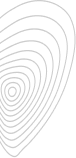
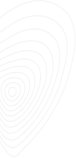
update: image of section workTogether is imported

diff --git a/my-app/src/components/projectManagment.jsx b/my-app/src/components/projectManagment.jsx
@@ -2,7 +2,7 @@ import React from 'react'
 
 import "./stylesheets/section2.css"
 import image from './../assets/image-container.png'
-import bgElement from './../assets/Elemen.png'
+import bgElement from './../assets/Group.png'
 import smBgElement from './../assets/Group.png'
 import highlightBg from './../assets/paintBrush.png'
 import HeroSection from './LHRI/HeroSection'
